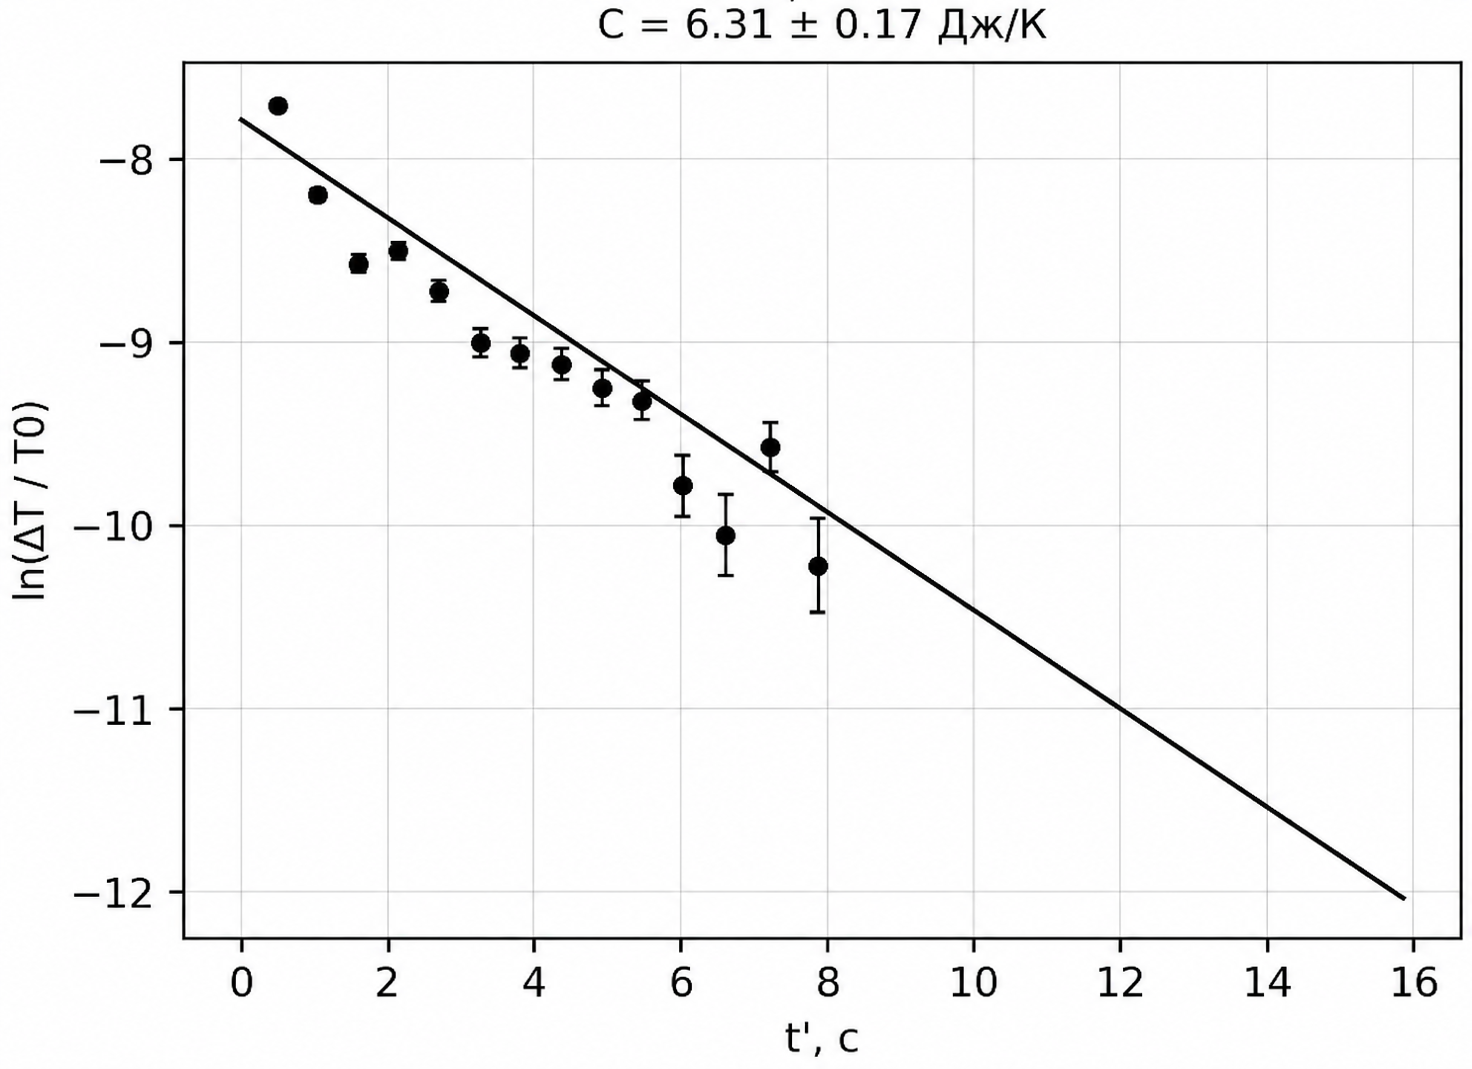
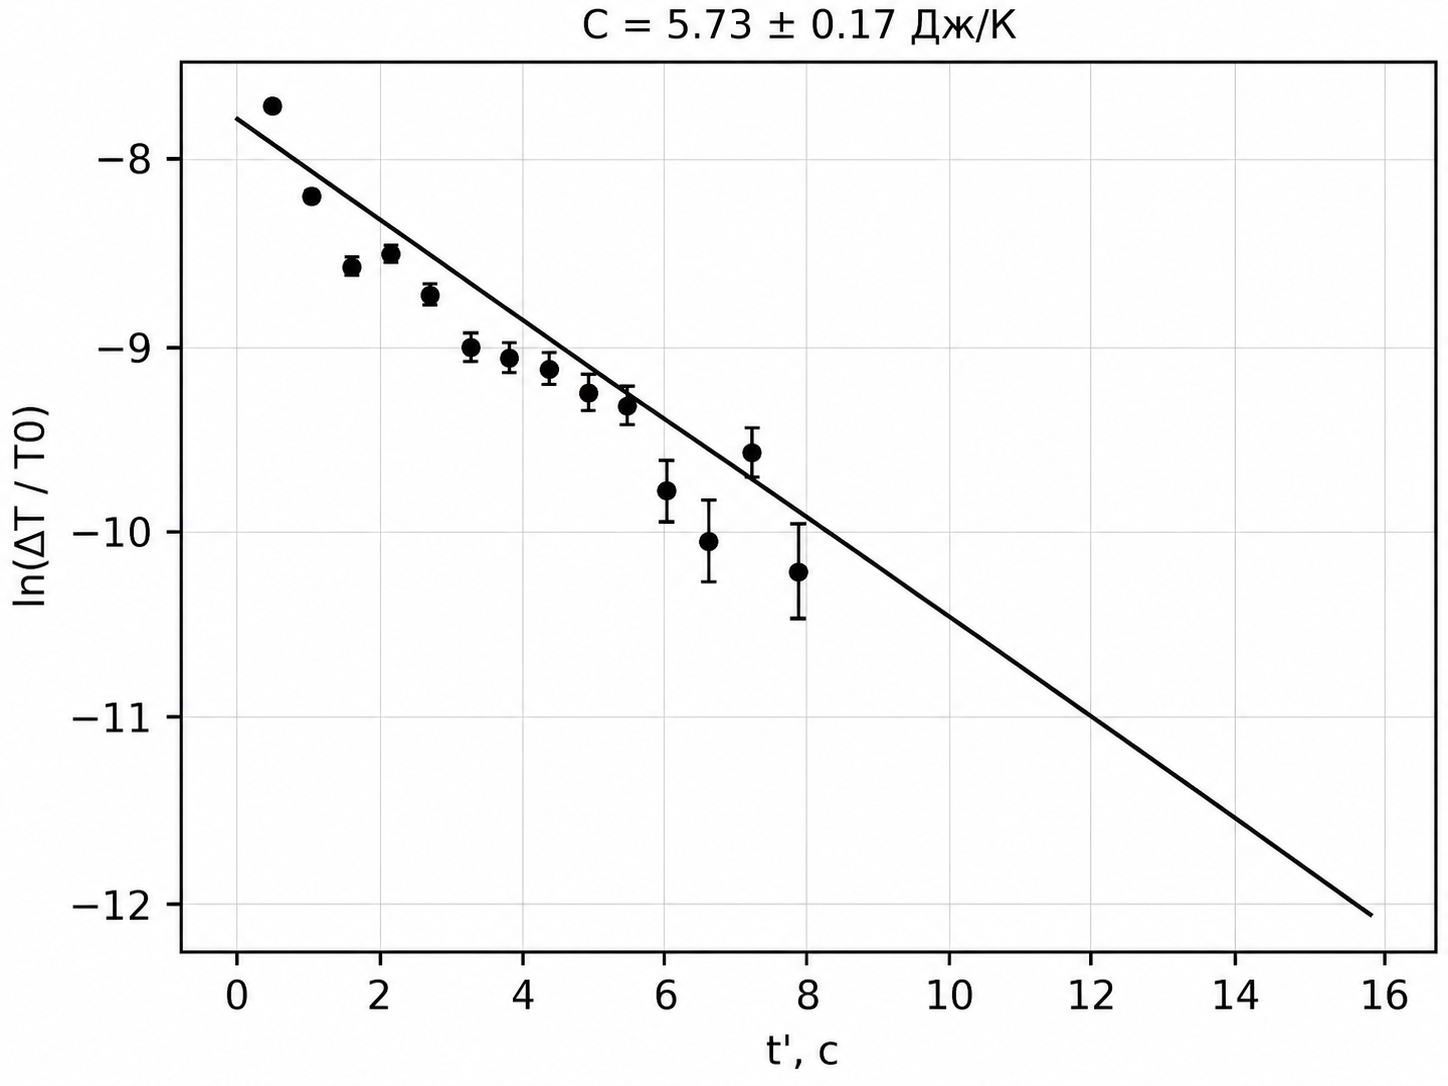
add tabular values and faults

diff --git a/VPV2sem.tex b/VPV2sem.tex
@@ -392,6 +392,7 @@
     b=(-3{,}94\pm0{,}32)~\text{Н}.
 \]
 Свободный член не согласуется с нулём в пределах найденной погрешности.
+Данное расхождение объясняется несовершенством установки и необратимостью растяжения.
 Следовательно, модель (16) хорошо описывает наклон экспериментальной зависимости,
 но даёт ненулевое смещение аппроксимирующей прямой.
 
@@ -445,10 +446,10 @@
         \left(\frac{\sigma_{s_0}}{s_0}\right)^2
     }.
 \]
-Итоговый результат по таблице:
+Итоговый результат:
 \[
     \boxed{
-        E=1{,}28765\cdot10^6\ \text{Па}
+        E=(1{,}28765 \pm 0.17)\cdot10^6\ \text{Па}
     }.
 \]
 
@@ -629,7 +630,61 @@
 \[
     m_{\text{обр}}
     =
+    \rho V
+    =
+    \rho s_0l_0.
+\]
+Подставляя начальные значения
+\[
+    \rho=0{,}965\ \text{г/см}^3,\qquad
+    s_0=29{,}7976\ \text{мм}^2=0{,}297976\ \text{см}^2,\qquad
+    l_0=10{,}0\ \text{см},
+\]
+получаем
+\[
+    m_{\text{обр}}
+    =
+    0{,}965\cdot0{,}297976\cdot10{,}0\ \text{г}
+    =
+    2{,}875\ \text{г}
+    =
     2{,}875\cdot10^{-3}\ \text{кг}.
+\]
+Погрешность массы найдём методом распространения погрешностей. Поскольку в таблице
+отдельная погрешность плотности не указана, учитываем только погрешности линейных размеров:
+\[
+    \sigma_{m_{\text{обр}}}
+    =
+    m_{\text{обр}}
+    \sqrt{
+        \left(\frac{\sigma_{d_0}}{d_0}\right)^2+
+        \left(\frac{\sigma_{h_0}}{h_0}\right)^2+
+        \left(\frac{\sigma_{l_0}}{l_0}\right)^2
+    }.
+\]
+Подставляя
+\[
+    \sigma_{d_0}=0{,}5\ \text{мм},\qquad
+    \sigma_{h_0}=0{,}5\ \text{мм},\qquad
+    \sigma_{l_0}=0{,}1\ \text{см},
+\]
+получаем
+\[
+    \sigma_{m_{\text{обр}}}
+    =
+    2{,}875\cdot
+    \sqrt{
+        \left(\frac{0{,}5}{6{,}26}\right)^2+
+        \left(\frac{0{,}5}{4{,}76}\right)^2+
+        \left(\frac{0{,}1}{10{,}0}\right)^2
+    }
+    \approx 0{,}381\ \text{г}
+    =
+    3{,}81\cdot10^{-4}\ \text{кг}.
+\]
+Следовательно,
+\[
+    m_{\text{обр}}=(2{,}875\pm0{,}381)\ \text{г}.
 \]
 Удельная теплоёмкость резины равна
 \[
@@ -641,13 +696,13 @@
     =
     c_l\sqrt{
         \left(\frac{\sigma_{C_l}}{C_l}\right)^2+
-        \left(\frac{\sigma_m}{m_{\text{обр}}}\right)^2
+        \left(\frac{\sigma_{m_{\text{обр}}}}{m_{\text{обр}}}\right)^2
     }.
 \]
 Итоговый результат:
 \[
     \boxed{
-        c_l=(1{,}76\pm0{,}12)\cdot10^3
+        c_l=(1{,}76\pm0{,}26)\cdot10^3
         \ \text{Дж/(кг}\cdot\text{К)}
     }.
 \]
@@ -707,7 +762,6 @@
 \[
     a_{\text{охл}}=-\frac{1}{\tau},
 \]
-то есть параметр $a_{\text{охл}}$ определяет скорость остывания образца, но не входит напрямую в выражение для $\Delta T_0$.
 Для каждого опыта экстраполированное значение температурного скачка определяется только коэффициентом
 $b_{\text{охл}}$:
 \[
@@ -750,11 +804,11 @@ $\left(A_i,\;T_0e^{b_{\text{охл},i}}\right)$.
         $\Delta T_0$, К & $\sigma_{\Delta T_0}$, К &
         $C_l$, Дж/К \\
         \hline
-        1 & 0.789 & -7.783 & 0.12499 & 0.00234 & 6.313 \\
+        1 & 0.789 & -7.783 & 0.12499 & 0.00234 & 5.732 \\
         \hline
-        2 & 0.699 & -7.858 & 0.11599 & 0.00230 & 6.026 \\
+        2 & 0.699 & -7.858 & 0.11599 & 0.00230 & 5.520 \\
         \hline
-        3 & 0.518 & -8.154 & 0.08628 & 0.00188 & 6.004 \\
+        3 & 0.518 & -8.154 & 0.08628 & 0.00188 & 5.394 \\
         \hline
     \end{tabular}}
 \end{table}
@@ -776,10 +830,38 @@ $\left(A_i,\;T_0e^{b_{\text{охл},i}}\right)$.
 \]
 Получаем
 \[
-    \boxed{
         C_{l,\text{экстр}}
         =
-        (6{,}12\pm0{,}10)\ \text{Дж/К}
+        (5{,}55\pm0{,}10)\ \text{Дж/К}.
+\]
+Удельная теплоёмкость, найденная методом экстраполяции, равна
+\[
+    c_{l,\text{экстр}}
+    =
+    \frac{C_{l,\text{экстр}}}{m_{\text{обр}}}
+    =
+    \frac{5{,}55}{2{,}875\cdot10^{-3}}
+    \approx
+    1{,}93\cdot10^3\ \text{Дж/(кг}\cdot\text{К)}.
+\]
+Её погрешность:
+\[
+    \sigma_{c_{l,\text{экстр}}}
+    =
+    c_{l,\text{экстр}}
+    \sqrt{
+        \left(\frac{\sigma_{C_{l,\text{экстр}}}}{C_{l,\text{экстр}}}\right)^2+
+        \left(\frac{\sigma_{m_{\text{обр}}}}{m_{\text{обр}}}\right)^2
+    }
+    \approx
+    0{,}26\cdot10^3\ \text{Дж/(кг}\cdot\text{К)}.
+\]
+Итоговый результат:
+\[
+    \boxed{
+        c_{l,\text{экстр}}
+        =
+        (1{,}93\pm0{,}26)\cdot10^3\ \text{Дж/(кг}\cdot\text{К)}
     }.
 \]
 
@@ -793,11 +875,11 @@ $\left(A_i,\;T_0e^{b_{\text{охл},i}}\right)$.
         \left(C_l+C_{l,\text{экстр}}\right)/2
     }\cdot100\%
     =
-    19{,}2\%.
+    9{,}43\%.
 \]
-Результаты не согласуются в пределах погрешности.
+Результаты хорошо согласуются в пределах погрешности.
 Возможное различие связано с теплообменом с окружающей средой,
-необратимостью растяжения и погрешностью экстраполяции.
+жаркой погодой в день проведения эксперимента (27 град.), необратимостью растяжения и погрешностью экстраполяции.
 
 \subsection*{6. Оценка коэффициента теплового расширения резины}
 
@@ -889,6 +971,44 @@ $\left(A_i,\;T_0e^{b_{\text{охл},i}}\right)$.
 
 Знак коэффициента $\alpha<0$ соответствует нагреванию образца при адиабатическом растяжении.
 
+\subsection*{7. Сравнение с табличными данными}
+
+Сравним полученные результаты с типичными табличными значениями для мягкой резины.
+Для удельной теплоёмкости характерны значения порядка
+\[
+    c_{\text{табл}} \sim (1{,}7\text{--}2{,}0)\cdot10^3\ \text{Дж/(кг}\cdot\text{К)}.
+\]
+Полученные в работе значения
+\[
+    c_l=(1{,}76\pm0{,}26)\cdot10^3\ \text{Дж/(кг}\cdot\text{К)},
+\]
+\[
+    c_{l,\text{экстр}}=(1{,}93\pm0{,}26)\cdot10^3\ \text{Дж/(кг}\cdot\text{К)}
+\]
+хорошо согласуются с этим диапазоном.
+
+Для модуля Юнга мягкой резины типичны значения порядка нескольких мегапаскалей:
+\[
+    E_{\text{табл}} \sim 1\text{--}10\ \text{МПа}.
+\]
+Экспериментально получено
+\[
+    E=(1{,}28765 \pm 0.17)\cdot10^6\ \text{Па}\approx 1{,}29\ \text{МПа},
+\]
+что соответствует нижней части табличного диапазона и поэтому может считаться удовлетворительно согласующимся
+с данными для мягкой резины.
+
+Для коэффициента теплового расширения мягкой резины характерны значения порядка
+\[
+    \alpha_{\text{табл}} \sim (1\text{--}3)\cdot10^{-4}\ \text{К}^{-1}.
+\]
+В работе получено
+\[
+    \alpha=(-6{,}09\pm0{,}67)\cdot10^{-4}\ \text{К}^{-1}.
+\]
+По абсолютной величине полученное значение заметно отличается от табличного диапазона, что говорит о том,
+что данный метод позволяет оценить коэффициент теплового расширения по порядку.
+
 \section*{Вывод}
 
 В работе была исследована зависимость силы растяжения резины от относительного удлинения.
@@ -911,11 +1031,16 @@ $f\left(\lambda-\lambda^{-2}\right)$
 \[
     C_{l,\text{экстр}}
     =
-    (6{,}12\pm0{,}10)\ \text{Дж/К}.
+    (5{,}55\pm0{,}10)\ \text{Дж/К}.
 \]
 Удельная теплоёмкость резины составила
 \[
-    c_l=(1{,}76\pm0{,}12)\cdot10^3
+    c_l=(1{,}76\pm0{,}26)\cdot10^3
+    \ \text{Дж/(кг}\cdot\text{К)}.
+\]
+По методу экстраполяции
+\[
+    c_{l,\text{экстр}}=(1{,}93\pm0{,}26)\cdot10^3
     \ \text{Дж/(кг}\cdot\text{К)}.
 \]
 Коэффициент теплового расширения